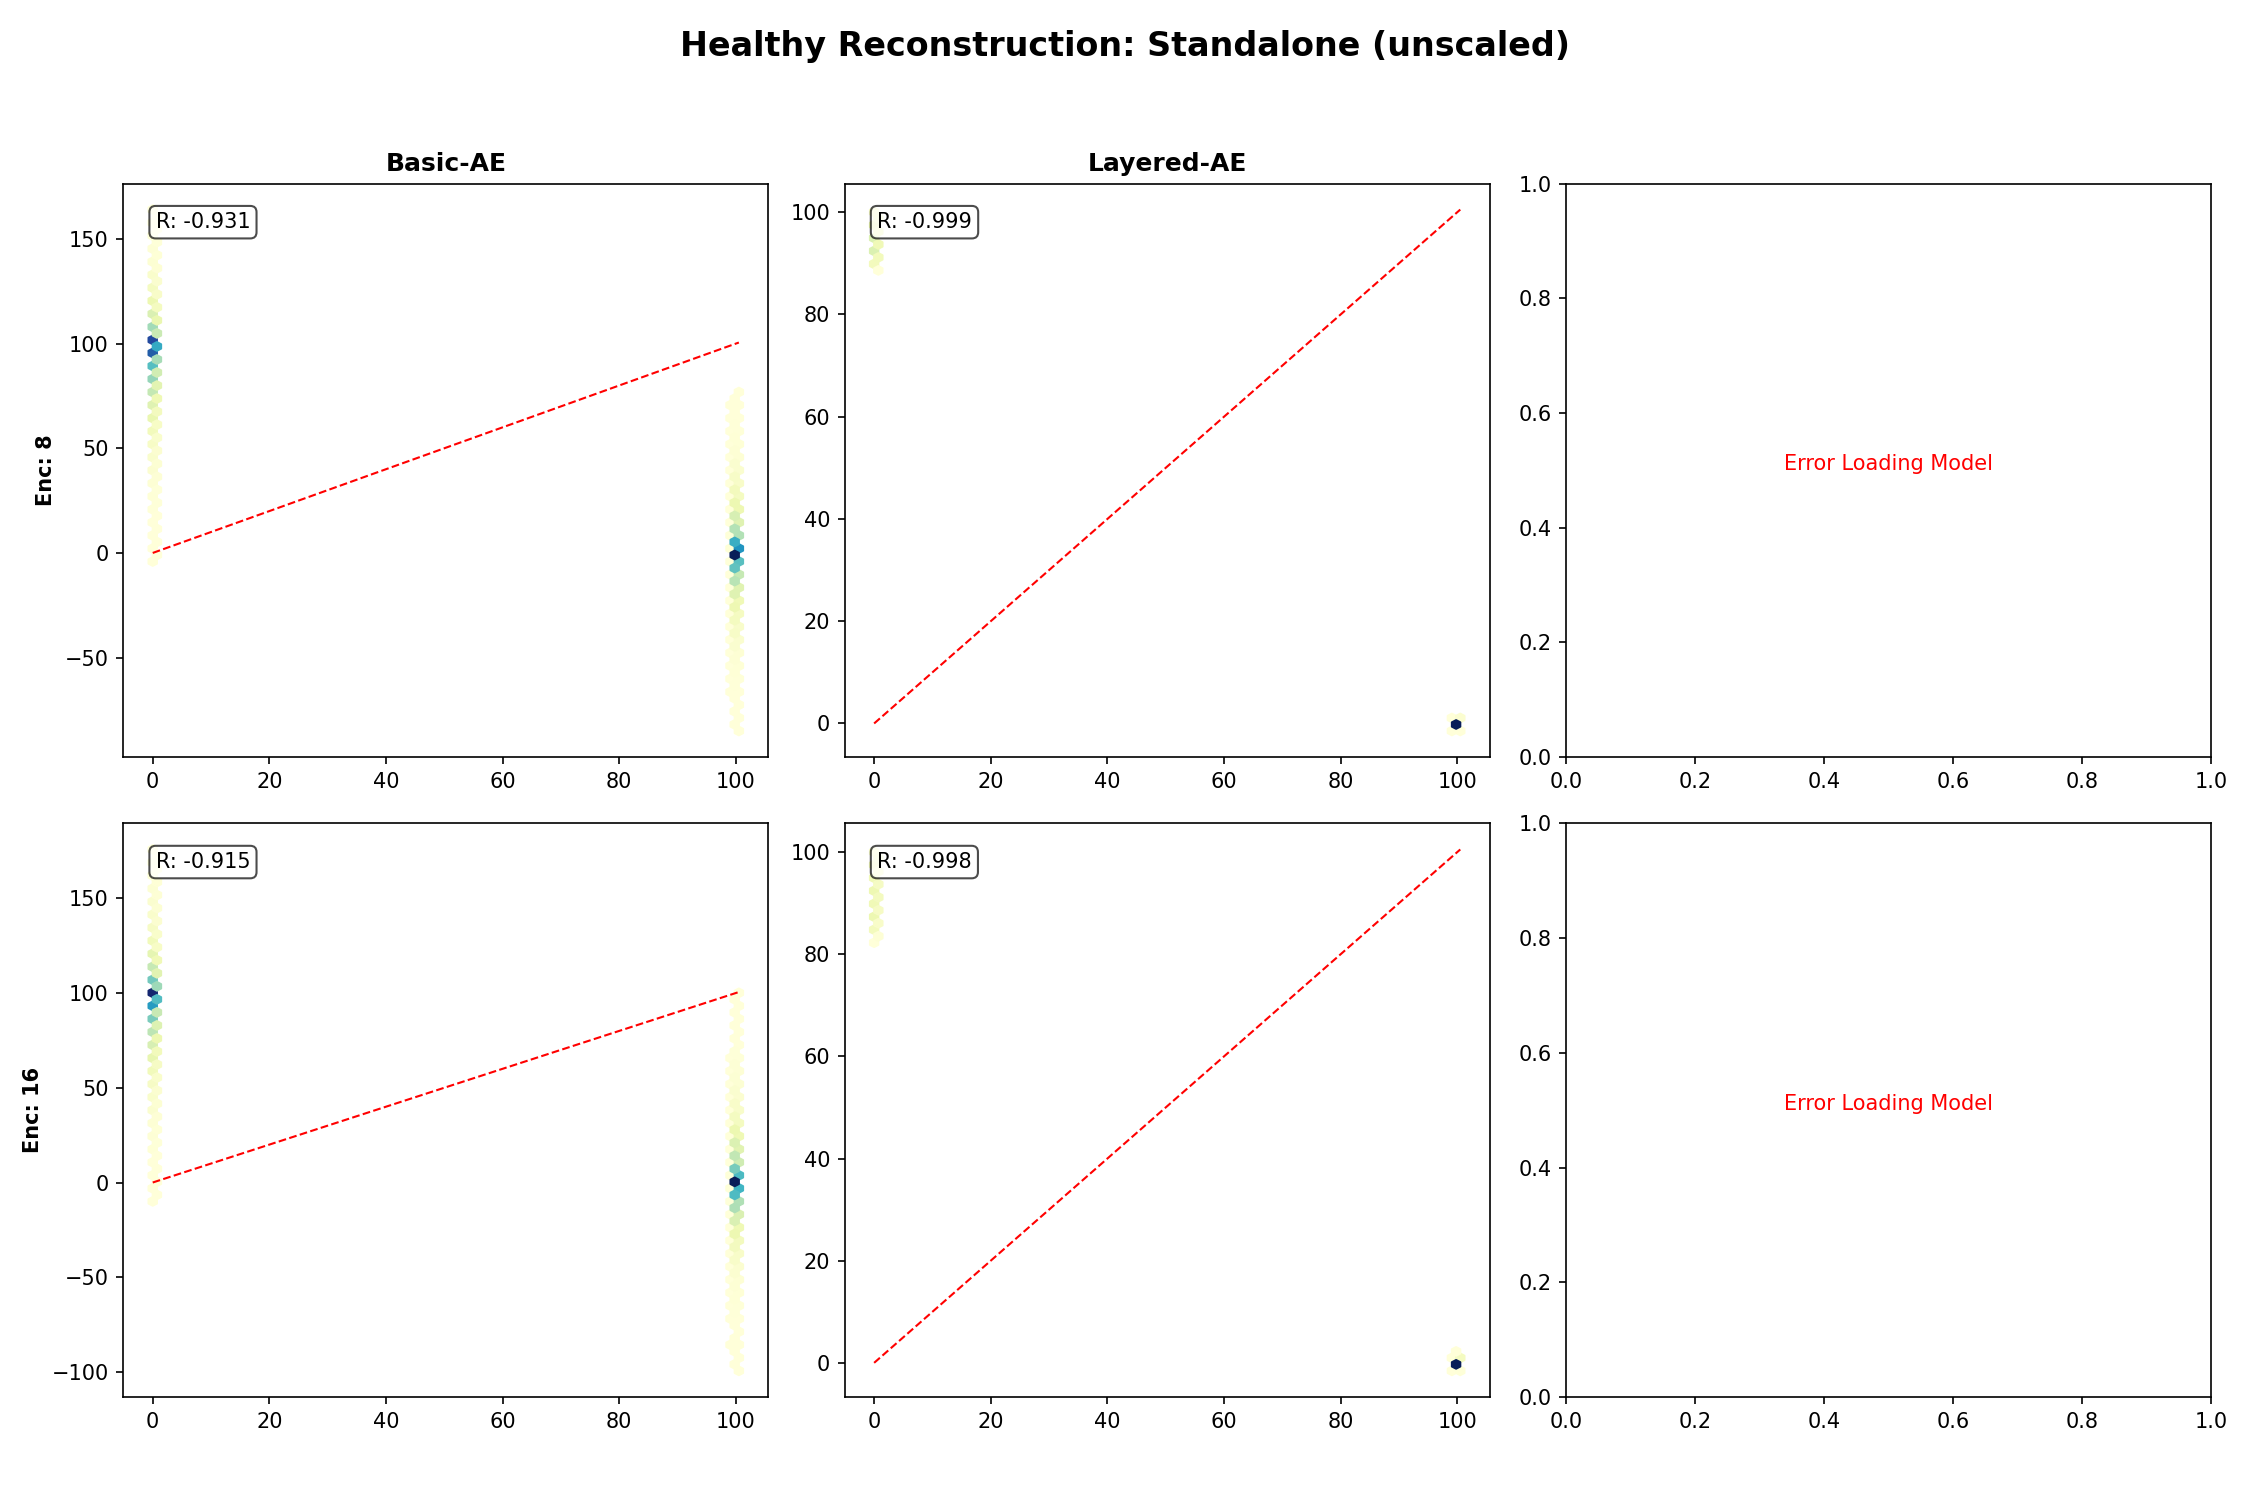
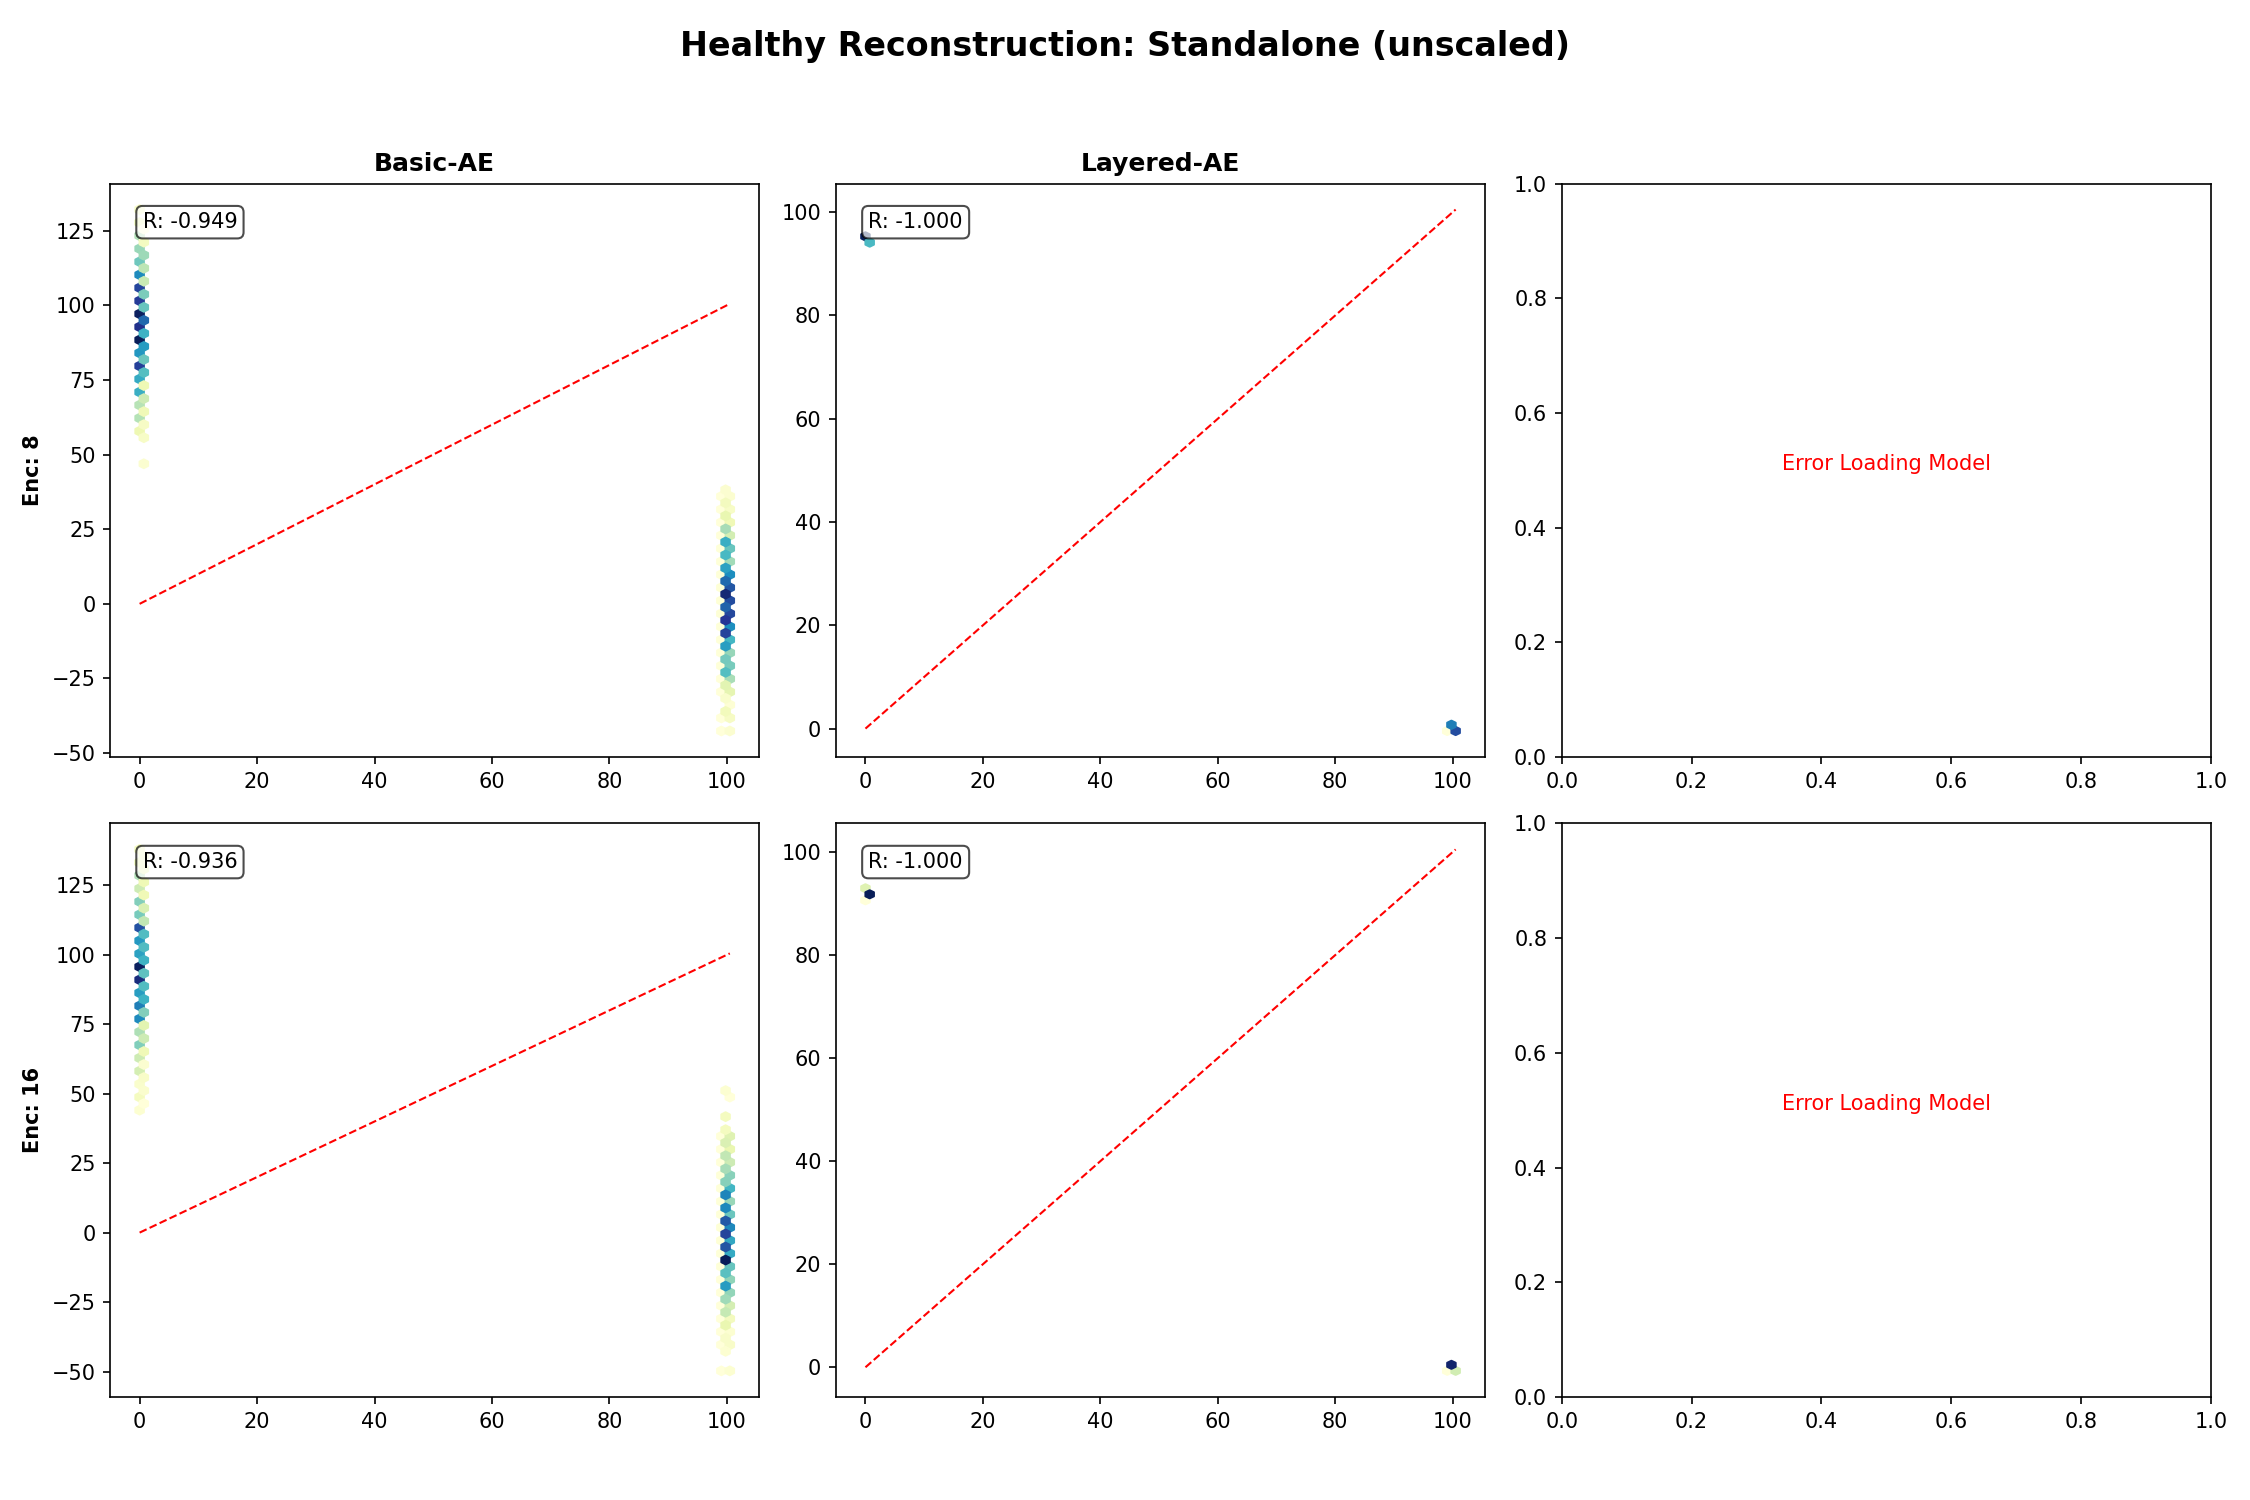
fixed theta true plots

diff --git a/analyzer.py b/analyzer.py
@@ -33,80 +33,6 @@ def load_reconstruction_data():
     
     return df_mixed, df_pure
 
-# FIXME: Reconstruction Plot Logic
-# - cant load the model for reconstruction, not sure im doing it correctly
-# - not sure if its taking best value or what, cant remember what it was suppose to be
-def analyze_reconstruction(phase='disease'):
-    """
-    Loads one specific model (e.g., Best Basic-AE) and plots its reconstruction
-    vs the Ground Truth.
-    """
-    print(f"\n{'='*20} Generating Reconstruction Scatter {'='*20}")
-
-    # --- IMPORT MODEL CLASS HERE ---
-    # Adjust this line if your class is in a different file (e.g. 'from models import AEBasic')
-    from core.models.ae_architectures import Basic_AE
-
-    # 1. Load Data
-    input_df, truth_df = load_reconstruction_data()
-    if input_df is None: return
-
-    # Convert to Tensor 
-    # We take the first 500 samples for the scatter plot
-    n_samples = 500
-    input_slice = input_df.iloc[:n_samples]
-    truth_slice = truth_df.iloc[:n_samples]
-
-    input_tensor = torch.tensor(input_slice.values).float().to(cfg.DEVICE)
-    truth_tensor = torch.tensor(truth_slice.values).float().to(cfg.DEVICE)
-
-    # 2. Select Model to Visualize
-    target_enc = 8
-    model_type = 'mix_H-pca_D-ae_basic'
-    scale_tag  = 'unscaled' # Warning: Ensure folder name matches exactly (Case Sensitive)
-
-    # Construct path to the saved model file
-    model_path = cfg.get_path(phase, scale_tag, model_type, target_enc, cfg.MODELS_SUBFOLDER) / "model.pt"
-    
-    if not model_path.exists():
-        print(f"Skipping Reconstruction: Model not found at {model_path}")
-        return
-
-    # 3. Load Model Architecture & Weights (THE FIX)
-    # We must create the empty model structure first!
-    model = Basic_AE(input_size=input_tensor.shape[1], encoding_size=target_enc)#, h1=cfg.H1, h2=cfg.H2)
-    model.to(cfg.DEVICE)
-
-    # Load the weights from the file (which is a dictionary, not a model object)
-    checkpoint = torch.load(model_path, map_location=cfg.DEVICE)
-    
-    # Handle both full checkpoint dicts and direct state_dicts
-    if isinstance(checkpoint, dict) and 'model_state_dict' in checkpoint:
-        model.load_state_dict(checkpoint['model_state_dict'])
-    else:
-        model.load_state_dict(checkpoint)
-
-    model.eval()
-
-    # 4. Run Inference
-    with torch.no_grad():
-        reconstructed, _ = model(input_tensor)
-    
-    original_np = truth_tensor.cpu().detach().numpy()
-    reconstructed_np = reconstructed.cpu().detach().numpy()
-    # 5. Plot
-    save_filename = f"reconstruction_hex_{model_type}_{target_enc}.png"
-    save_path = cfg.get_path(phase, folder_type=cfg.PLOTS_SUBFOLDER) / save_filename
-    
-    pu.plot_io_scatter(
-        original=original_np, 
-        reconstructed=reconstructed_np, 
-        title=f"Global Reconstruction: {model_type} (Enc {target_enc})", 
-        save_path=save_path,
-        log_scale=False  # Recommended for gene expression
-    )
-    
-    print(f"Saved reconstruction plot to {save_path}")
 
 def analyze_reconstruction_grid(labels_dict, phase='healthy', scale_bool=True):
     """
@@ -335,7 +261,7 @@ def analyze_disease_mix(phase='disease'):
         ##unscaled data reconstructions
         analyze_reconstruction_grid(disease_mix_labels, phase='disease', scale_bool=False)
 
-    
+
 
 
 

diff --git a/config.py b/config.py
@@ -17,8 +17,8 @@ DATA_PATH = PROJECT_ROOT / 'data'
 
 # ---- Global Decisions ----
 RANDOM_THETA_EXP = False
-FIXED_THETA_EXP = False
-SYNTHETIC_DATA = False
+FIXED_THETA_EXP = True
+SYNTHETIC_DATA = True
 DEVICE = 'mps' # 'cuda' for Windows/Linux with NVIDIA, 'mps' for macOS
 
 